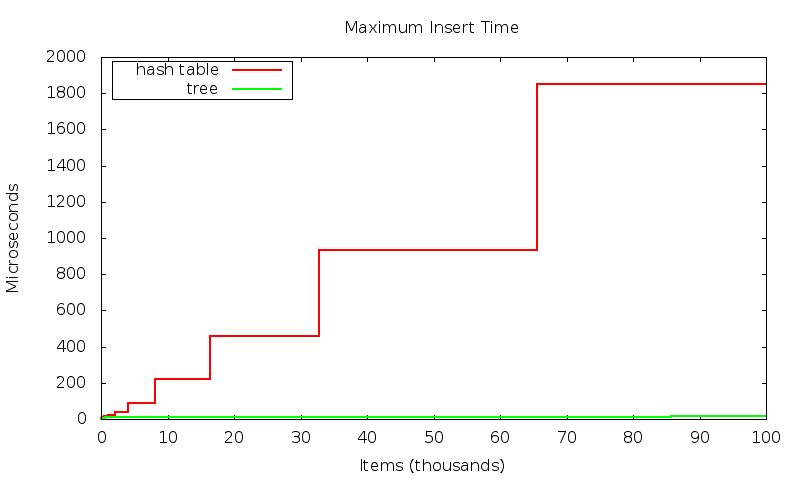
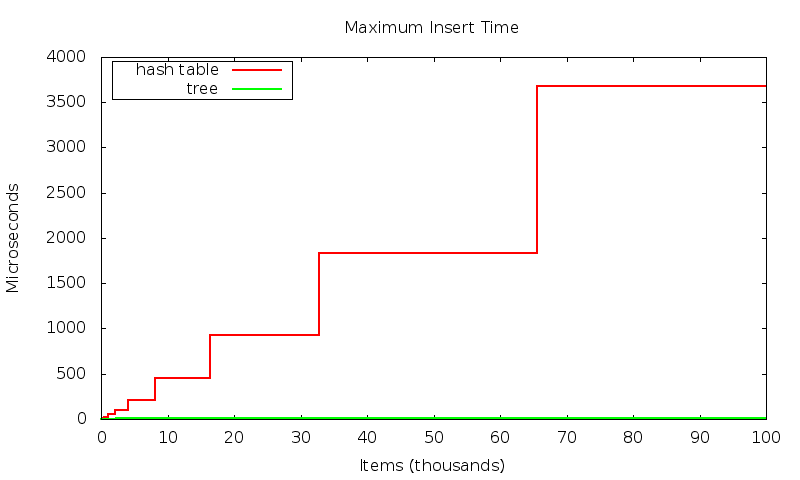
Change util to return size_t; put average tie in output

diff --git a/src/benchmark/insert-maxtime.cc b/src/benchmark/insert-maxtime.cc
@@ -53,20 +53,23 @@ typedef some sample_type;
 template<typename T, typename U>
 void test(const unsigned size, const unsigned samples) {
   unsigned i = 0;
-  high_priority zz;
+  //high_priority zz;
   std::vector<T> p(samples);
   std::vector<U> q(samples);
-  std::vector<double> l1(samples,0.0), l2(samples,0.0);
+  std::vector<size_t> l1(samples,0), l2(samples,0);
+  std::vector<size_t> s1(samples,0), s2(samples,0);
   for (unsigned j = 0; j < size; ++j) { 
     const auto x = some::random();
     for (unsigned k = 0; k < samples; ++k) { 
-      double begin, mid, end;
+      size_t begin, mid, end;
       if ((j & 1)) {
         begin = get_time();
         p[k].insert(x);
         mid = get_time(); 
         q[k].insert(x);
         end = get_time();
+        s1[k] += mid-begin;
+        s2[k] += end-mid;
         l1[k] = std::max(l1[k], mid-begin);
         l2[k] = std::max(l2[k], end-mid);
       } else {
@@ -75,16 +78,21 @@ void test(const unsigned size, const unsigned samples) {
         mid = get_time(); 
         p[k].insert(x);
         end = get_time();
+        s2[k] += mid-begin;
+        s1[k] += end-mid;
         l2[k] = std::max(l2[k], mid-begin);
         l1[k] = std::max(l1[k], end-mid);
       }
     }
     cout << static_cast<double>(j)/1000.0 << '\t'
-         << 1000000 * avg(l1) << '\t'
-         << 1000000 * avg(l2) << endl;
+         << avg(l1)/1000.0 << '\t'
+         << avg(l2)/1000.0 << '\t' 
+         << avg(s1)/static_cast<double>(1000 * (j+1)) << '\t'
+         << avg(s2)/static_cast<double>(1000 * (j+1)) << endl;
   }
 }
 
+/*
 void print_test(std::vector<std::tuple<unsigned, double, double> > x) {
   std::unordered_map<unsigned, std::pair<std::vector<double>, std::vector<double> > > collect;    
   for (const auto& y : x) {
@@ -97,6 +105,7 @@ void print_test(std::vector<std::tuple<unsigned, double, double> > x) {
               << avg(y.second.second) << std::endl;
   }
 }
+*/
 
 int main(int argc, char ** argv) {
   srand(0);

diff --git a/src/util.cc b/src/util.cc
@@ -4,11 +4,11 @@
 
 // get_time returns the number of CPU seconds taken by the current
 // process as a floating point number. Be sure to link with -lrt.
-double get_time() {
-  static const double freq = static_cast<double>(1000*1000*1000);
+size_t get_time() {
+  static const size_t freq = 1000000000ull;
   static timespec atime;
   clock_gettime(CLOCK_PROCESS_CPUTIME_ID, &atime);
-  return ((static_cast<double>(atime.tv_sec) * 1000 * 1000 * 1000) + static_cast<double>(atime.tv_nsec))/freq;
+  return (static_cast<size_t>(atime.tv_sec) * freq) + static_cast<size_t>(atime.tv_nsec);
 }
 
 
